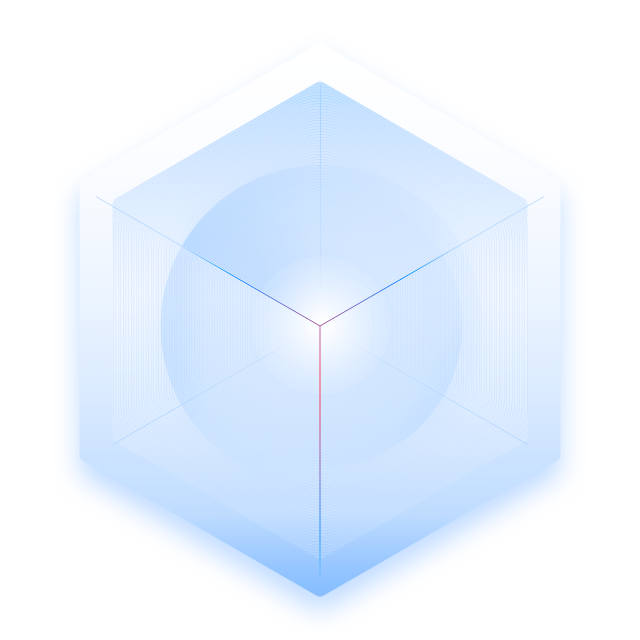
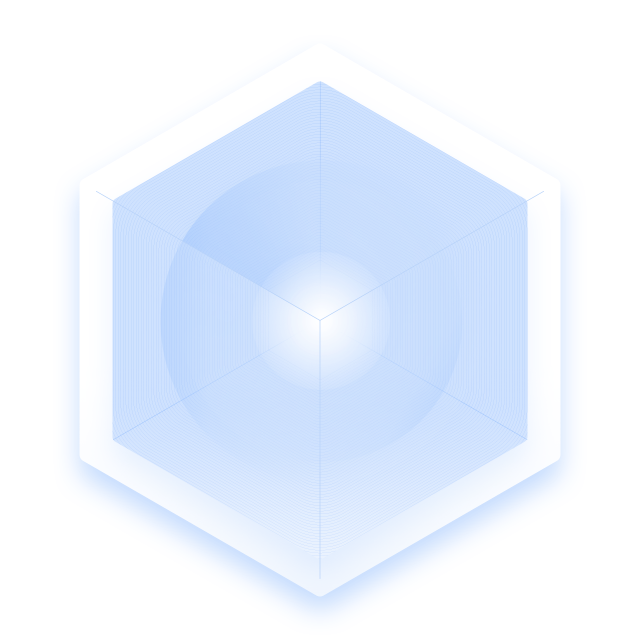
feat: 图表效果

diff --git a/monitor-ui/src/views/alarm-history.vue b/monitor-ui/src/views/alarm-history.vue
@@ -45,27 +45,60 @@
       </div>
     </div>
     <div class="data-stats-container" v-if="showGraph && resultData.length">
+      <div class="top-stats-container">
+        <div class="left">
+          <div class="metics-metal">
+            <div class="col">
+              <div class="title">{{$t('realTimeAlarm')}}</div>
+              <img class="time-icon" src="../assets/img/icon_rltm.png" />
+            </div>
+          </div>
+          <circle-item type="total" :title="$t('m_total')" :total="total" :value="total" :icon="totalIcon" />
+          <circle-item type="low" :title="$t('m_low')" :total="total" :value="low" :icon="lowIcon" />
+          <circle-item type="medium" :title="$t('m_medium')" :total="total" :value="mid" :icon="midIcon" />
+          <circle-item type="high" :title="$t('m_high')" :total="total" :value="high" :icon="highIcon" />
+        </div>
+        <div class="right">
+          <div class="metics-metal">
+            <div class="col">
+              <div class="title">{{$t('todayAlarm')}}</div>
+              <img class="time-icon" src="../assets/img/icon_rltm.png" />
+            </div>
+          </div>
+        </div>
+      </div>
+    </div>
+    <div class="data-stats-container" v-if="showGraph && resultData.length">
       <transition name="slide-fade">
-        <div class="top-stats-container">
+        <div class="content-stats-container">
           <div class="left">
-            <div class="metics-metal">
-              <div class="col">
-                <div class="title">{{$t('realTimeAlarm')}}</div>
-                <img class="time-icon" src="../assets/img/icon_rltm.png" />
+            <img class="bg" src="../assets/img/bgd_main_cube.png" />
+            <img class="cube" width="640" height="640" src="../assets/img/the_cube.png" />
+            <img class="low" width="200" height="200" src="../assets/img/peichart_L.png" />
+            <img class="mid" width="200" height="200" src="../assets/img/peichart_M.png" />
+            <img class="high" width="200" height="200" src="../assets/img/peichart_H.png" />
+            <div class="cir low">
+              <div class="text">
+                <div class="title">{{ $t('m_low') }}</div>
+                <div class="value">{{ getPercentage(low, total) }}%</div>
               </div>
             </div>
-            <circle-item type="total" :title="$t('m_total')" :total="total" :value="total" :icon="totalIcon" />
-            <circle-item type="low" :title="$t('m_low')" :total="total" :value="low" :icon="lowIcon" />
-            <circle-item type="medium" :title="$t('m_medium')" :total="total" :value="mid" :icon="midIcon" />
-            <circle-item type="high" :title="$t('m_high')" :total="total" :value="high" :icon="highIcon" />
+            <div class="cir mid">
+              <div class="text">
+                <div class="title">{{ $t('m_medium') }}</div>
+                <div class="value">{{ getPercentage(mid, total) }}%</div>
+              </div>
+            </div>
+            <div class="cir high">
+              <div class="text">
+                <div class="title">{{ $t('m_high') }}</div>
+                <div class="value">{{ getPercentage(high, total) }}%</div>
+              </div>
+            </div>
+            <div></div>
           </div>
           <div class="right">
-            <div class="metics-metal">
-              <div class="col">
-                <div class="title">{{$t('todayAlarm')}}</div>
-                <img class="time-icon" src="../assets/img/icon_rltm.png" />
-              </div>
-            </div>
+            
           </div>
         </div>
       </transition>
@@ -382,6 +415,9 @@ export default {
       delete this.filters[key]
       this.getAlarm()
     },
+    getPercentage(val, total) {
+      return (parseInt(val, 10) * 100 / parseInt(total, 10)).toFixed(2)
+    }
   }
 }
 </script>
@@ -420,11 +456,6 @@ export default {
 
     /deep/.ivu-input {
       border: 1px solid #F2F3F7;
-    }
-
-    /deep/.ivu-icon-ios-calendar-outline::before {
-      // content: "";
-      // background: url('../assets/img/icon_clndr.png') no-repeat;
     }
 
     .btn-sm {
@@ -481,6 +512,97 @@ export default {
       flex-basis: 60%;
       height: 100%;
       display: flex;
+    }
+    .right {
+      flex-basis: 40%;
+      height: 100%;
+    }
+  }
+
+  .content-stats-container {
+    width: 100%;
+    display: flex;
+    margin: 12px 0;
+
+    .left {
+      position: relative;
+      flex-basis: 60%;
+      display: flex;
+      justify-content: center;
+      align-items: center;
+      padding-top: 53.5px;
+      .bg {
+        position: absolute;
+        top: 0;
+      }
+      .low {
+        position: absolute;
+        transform: translate(-86.6px, -50px);
+      }
+      .mid {
+        position: absolute;
+        transform: translate(86.6px, -50px);
+      }
+      .high {
+        position: absolute;
+        transform: translate(0, 100px);
+      }
+
+      .cir {
+        position: absolute;
+        width: 16px;
+        height: 16px;
+        background: #FFFFFF;
+        border-radius: 50%;
+
+        .text {
+          .title {
+            font-size: 16px;
+            color: #404144;
+          }
+          .value {
+            font-size: 36px;
+            font-weight: 500;
+          }
+        }
+
+        &.low {
+          border: 2px solid #6ED06D;
+          transform: translate(-173px, -100px);
+
+          .text {
+            margin-left: -135px;
+
+            .value {
+              color: #6ED06D;
+            }
+          }
+        }
+        &.mid {
+          border: 2px solid #F19D38;
+          transform: translate(173px, -100px);
+
+          .text {
+            margin-left: 85px;
+
+            .value {
+              color: #F19D38;
+            }
+          }
+        }
+        &.high {
+          border: 2px solid #DA4E2B;
+          transform: translate(0, 200px);
+
+          .text {
+            margin-top: 75px;
+
+            .value {
+              color: #DA4E2B;
+            }
+          }
+        }
+      }
     }
     .right {
       flex-basis: 40%;
